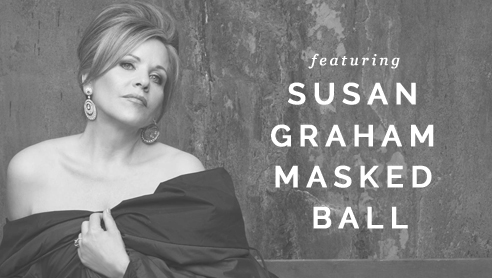
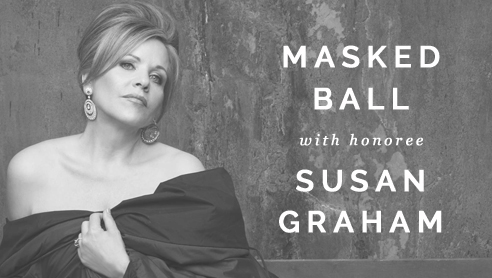
Added the subscribe map, changed masked ball images, removed subscribe call out on home page

diff --git a/events/subscribe.html b/events/subscribe.html
@@ -112,7 +112,7 @@
             <a href="/events/mozart-requiem.html"><h5>1791: The Mozart Requiem</h5></a>
             <em>05.02  —  Park Avenue Christian Church</em>
           </article>
-          <!--<img class="img-responsive map" src="http://maps.googleapis.com/maps/api/staticmap?center=1100+Park+Ave,+New+York,+NY+10028&zoom=14&size=700x300&maptype=roadmap&visual_refresh=true&markers=color:green%7Clabel:A%7C40.7793659,-73.9585091&markers=color:green%7Clabel:B%7C40.7870599,-73.955279&markers=color:green%7Clabel:C%7C40.7789659,-73.9579091&sensor=false">-->
+          <img class="img-responsive map" src="http://maps.googleapis.com/maps/api/staticmap?center=1100+Park+Ave,+New+York,+NY+10028&zoom=14&size=700x300&maptype=roadmap&visual_refresh=true&markers=color:green%7Clabel:A%7C40.7793659,-73.9585091&markers=color:green%7Clabel:B%7C40.7870599,-73.955279&markers=color:green%7Clabel:C%7C40.7789659,-73.9579091&sensor=false">
         </div>
       </section>
 

diff --git a/index.html b/index.html
@@ -159,8 +159,6 @@
         </div>
       </div>
 
-      <div class="row"><a href="/events/subscribe.html" class="btn btn-default col-md-8 col-md-offset-2">Learn more about subscribing to our 2013 season</a></div>
-
       <hr>
 
       <div class="sponsors">
